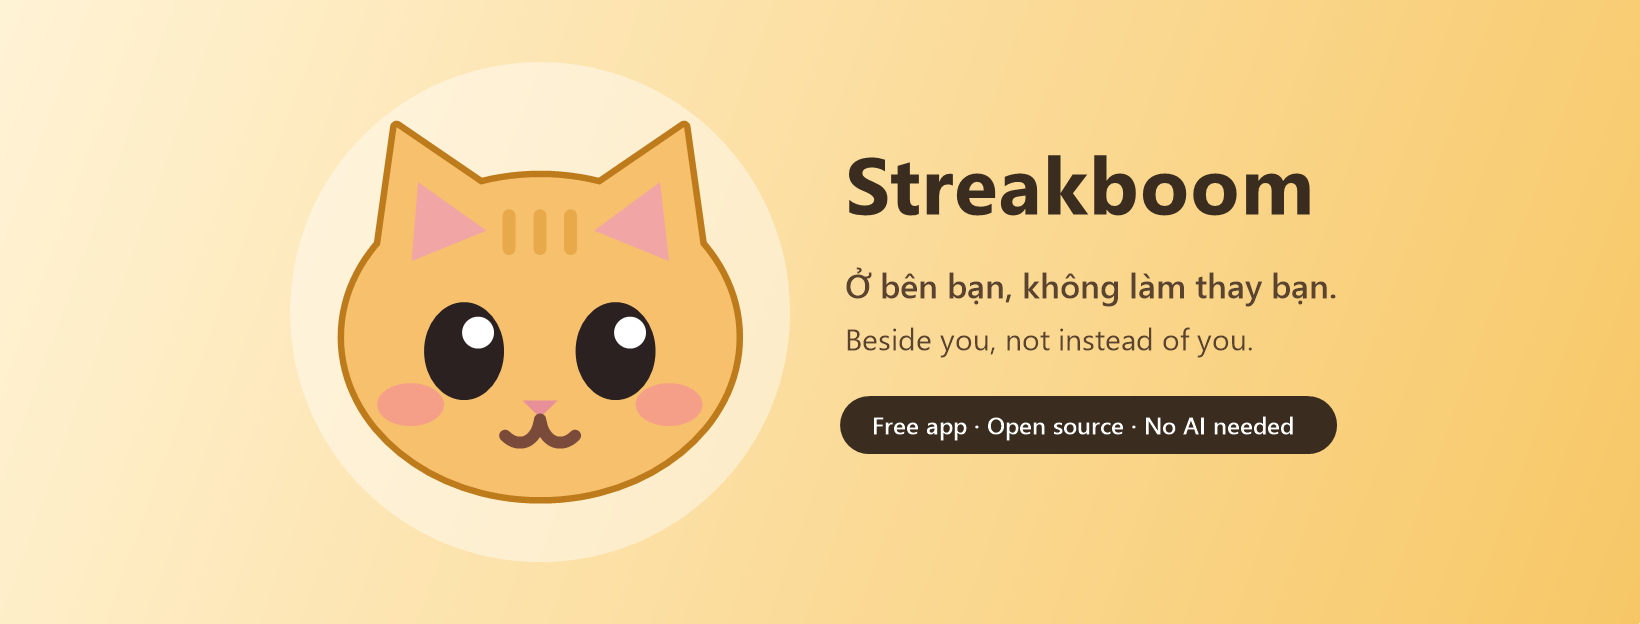
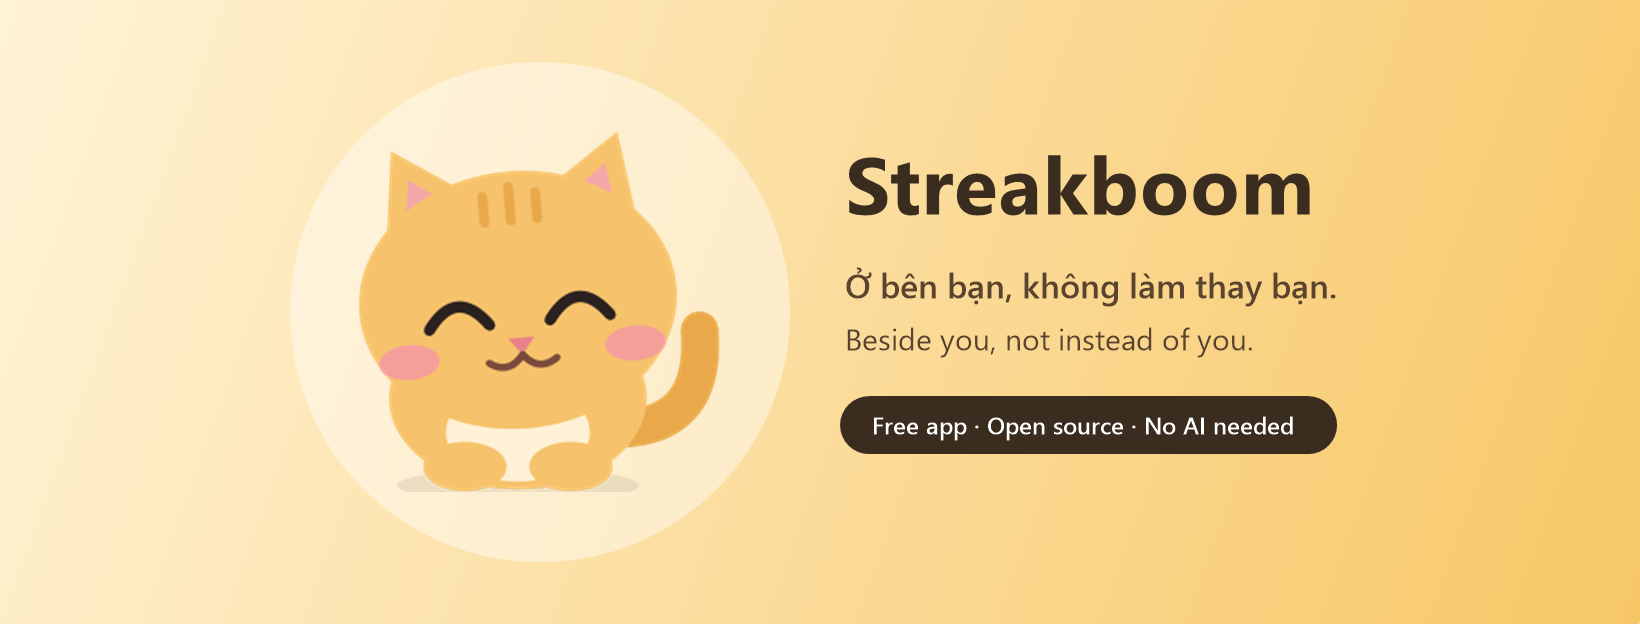
Facebook Page: post 2 with its picture, and a new cover with Peak of sticker 13
Post 2 (what Peak does not do) went up on 2026-11-17 with a picture of Peak asleep on a window edge. The cover was redone on 2026-11-18 because its Peak had the same face as the profile picture: it now uses Peak of the sticker 13 of set-v2 as it is, the words cropped off, centred in the circle by its measured box. Notes and verification debt say what is still unseen (the phone, a signed-out visitor, the author's look at the files).

Changed region(s): [[0.1866, 0.1827, 0.4665, 0.8221]]

diff --git a/docs/plans/verification-debt.md b/docs/plans/verification-debt.md
@@ -246,5 +246,5 @@ How the agent checks on the real machine: run from the author's Terminal panel (
 | V-166 | PS-10: the cost (36 ms a capture, about 0.4% of a core) was measured on **one** i5-7300U with one monitor in a release build; a weaker machine, a 4K screen and several monitors are not measured. | The test `the_capture_costs` and the task manager on those machines |
 | V-167 | The reference sheet of Paws (`docs/plans/paws-reference-sheet.md`, drawn 2026-11-15): **the author has not looked at it**; the PNG renders were made with PyMuPDF, not Chrome, and the SVG was not opened in an `<img>` tag or a chat app; the rim contrast against dark chats was judged by eye on two grounds (#1e1f22, #2b2d31); the side view's near and far feet are close; whether it reads as a Border Collie to someone who knows the breed | the author looks at `assets/paws/paws-reference-sheet.png` and `paws-check.png`; open `paws-front.svg` in an `<img>` and in a chat | Vinh | 2026-11-15 |
 | V-168 | The eight duo stickers (`docs/plans/paws-duo-stickers.md`, drawn 2026-11-15, **drafts**; **only four are kept for now**, D1-D3 and P1 without beads; P2, S1, C1, C2 are parked, so the controls of spec 19 are missing and the test is not run, ADR-0129; P1's caption became "Bí mật nha.", read by no one yet): the author has not looked at them; the en and ja lines are AI-written and unreviewed (as V-99, V-122); PNGs rendered with PyMuPDF, not Chrome; the four-panel story S1 is small at 32 px (the panels do not read); P1 and S1 were redrawn after the author's first look (the beads removed) and not looked at again; spec 19's bead scene is no longer what is drawn; the tags and synonyms are a first guess (the build dictionary of spec 13 was not run on them); nothing is added to the site or the app; the counting Worker (V-159) is not checked | the author looks at `assets/paws/stickers-draft/duo-stickers-vi.png` and the `review_*.png`; a native reader reads the en and ja lines; run the spec 13 tag build on `manifest.json` | Vinh | 2026-11-15 |
-| V-169 | The Facebook cover (1640 x 624) and profile picture (1024) in `docs/plans/assets/facebook-page/` were made with GDI+, approved by the author and uploaded on 2026-11-17. Seen on a computer as the Page's manager (the cover shows whole, the profile picture fits the round crop, the bio is on the Page). **Not seen: the phone crop (text inside about x 290 to 1340), a visitor who is not signed in;** the cover's cat is a redrawing of the icon in code, not the official vector. | Open the Page on a phone and in a private window | Vinh | 2026-11-17 |
-| V-170 | The five posts of `docs/plans/facebook-launch-posts.md` were written and checked against the word lists, but post 1 went up on 2026-11-17 and got a new picture the same day (`post1-peak-on-a-window-1200x630.png`, a body drawn in code for this post: **not looked at by the author as a file**, only in Facebook's preview), seen on the Page as its manager only; posts 2 to 5 are **not posted**, and the author has read none of them; the Page was not seen by a visitor who is not signed in; the sticker page copy button on a phone was not tried. | Read the posts; open the Page in a private window; copy a sticker on a phone | Vinh | 2026-11-17 |
+| V-169 | The Facebook cover (1640 x 624) and profile picture (1024) in `docs/plans/assets/facebook-page/` were made with GDI+, approved by the author and uploaded on 2026-11-17; **the cover was redone on 2026-11-18** with Peak of the sticker 13 "Sướng quá~" (the picture as it is, the words cropped off, enlarged about 1.5 times so a little soft, centred by its measured box with the tail) and uploaded the same day, and the author has not looked at the new one as a file. Seen on a computer as the Page's manager (the cover shows whole, the profile picture fits the round crop, the bio is on the Page). **Not seen: the phone crop (text inside about x 290 to 1340), a visitor who is not signed in;** the cover's cat is a redrawing of the icon in code, not the official vector. | Open the Page on a phone and in a private window | Vinh | 2026-11-17 |
+| V-170 | The five posts of `docs/plans/facebook-launch-posts.md` were written and checked against the word lists, but post 1 went up on 2026-11-17 and got a new picture the same day (`post1-peak-on-a-window-1200x630.png`, a body drawn in code for this post: **not looked at by the author as a file**, only in Facebook's preview), seen on the Page as its manager only; post 2 went up the same day with a second new picture (`post2-peak-asleep-1200x630.png`, not looked at by the author as a file) and posts 3 to 5 are **not posted**; the author has read none of the five; the Page was not seen by a visitor who is not signed in; the sticker page copy button on a phone was not tried. | Read the posts; open the Page in a private window; copy a sticker on a phone | Vinh | 2026-11-17 |

diff --git a/docs/plans/backlog.md b/docs/plans/backlog.md
@@ -489,8 +489,8 @@ The dog is **not** to be put in the app; this is a sticker test, and the decisio
 | ID | Story | Size | State |
 |---|---|---|---|
 | FB-1 | Create the Page (name, category, website link) | S | done 2026-11-17 by the author |
-| FB-2 | The cover and the profile picture | S | made 2026-11-17 (`docs/plans/assets/facebook-page/`), approved by the author and **uploaded by him the same day**; seen on a computer as the Page's manager (nothing cut, the face fits the round crop); **the phone and a signed-out visitor not seen** (V-169) |
-| FB-3 | The bio and the five first posts | S | the bio is on the Page (2026-11-17, seen); post 1 was **posted on 2026-11-17** (the first comment holds the link and the SmartScreen note); the picture `docs/plans/assets/facebook-page/post1-peak-on-a-window-1200x630.png` (Peak on a window edge, drawn in code from the icon and the og-image, **a new drawing the author has not looked at as a file**) was added to the post the same day; the Page's public phone number was removed at the author's request; posts 2 to 5 are written and **not posted** (V-170) |
+| FB-2 | The cover and the profile picture | S | made 2026-11-17; **the cover was redone on 2026-11-18** at the author's order (its Peak had the same face as the profile picture): it now carries Peak of the sticker 13 "Sướng quá~" of set-v2 (`stickers/set-v2/vi/13.png`, the picture as it is, with the words cropped off at the author's order, then enlarged about 1.5 times and centred in the circle by its measured box, tail included) and was uploaded to the Page the same day. First version: (`docs/plans/assets/facebook-page/`), approved by the author and **uploaded by him the same day**; seen on a computer as the Page's manager (nothing cut, the face fits the round crop); **the phone and a signed-out visitor not seen** (V-169) |
+| FB-3 | The bio and the five first posts | S | the bio is on the Page (2026-11-17, seen); post 1 was **posted on 2026-11-17** (the first comment holds the link and the SmartScreen note); the picture `docs/plans/assets/facebook-page/post1-peak-on-a-window-1200x630.png` (Peak on a window edge, drawn in code from the icon and the og-image, **a new drawing the author has not looked at as a file**) was added to the post the same day; the Page's public phone number was removed at the author's request; post 2 was **posted on 2026-11-17** too (Vietnamese only, with `post2-peak-asleep-1200x630.png`); posts 3 to 5 are written and **not posted** (V-170) |
 | FB-4 | A link to the Page and `sameAs` on the website; the share preview looked at in the Sharing Debugger | S | handed over (`docs/handoff/website-facebook-page.md`), the website session |
 | FB-5 | A clip under 10 seconds of Peak and a chat screenshot for posts 1 and 5 | S | proposed; the author records them |
 | FB-6 | Claim `@streakboom` and put the readable address in the handoff and the README | S | done 2026-11-17: the author set it, the address opens the Page, the handoff and the ADR carry it; the README carries a Facebook link in its first row of links (2026-11-17) |

diff --git a/docs/plans/facebook-launch-posts.md b/docs/plans/facebook-launch-posts.md
@@ -62,6 +62,8 @@ Note: the installer is not code-signed yet, so Windows SmartScreen warns the fir
 
 ## Post 2: What Peak does not do
 
+**Posted 2026-11-17** by Claude on the author's order, Vietnamese only, Public, no comment. The picture is `docs/plans/assets/facebook-page/post2-peak-asleep-1200x630.png` (Peak asleep on a window edge with a Zzz bubble, drawn in code like the picture of post 1).
+
 **Picture:** Peak asleep or sitting still in a corner of a screen.
 
 **VI**
